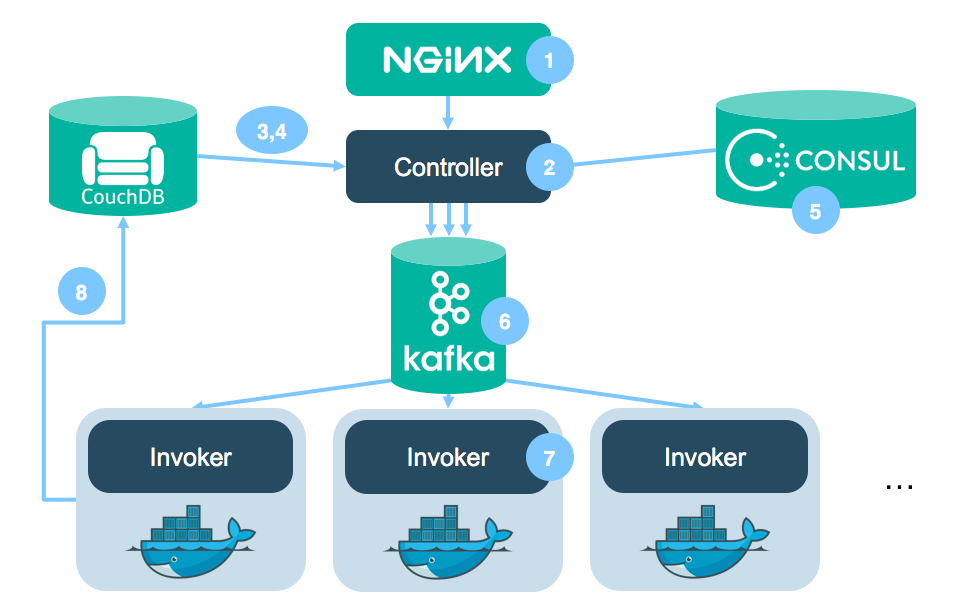
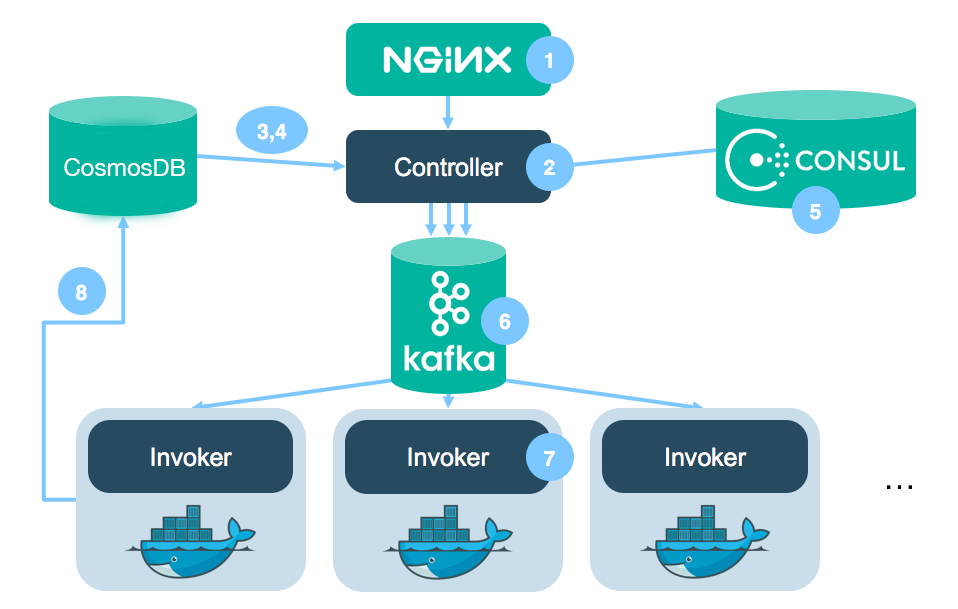
Add CosmosDB

Changed region(s): [[0.0605, 0.1872, 0.2119, 0.3744]]

diff --git a/overview/howitworks.md b/overview/howitworks.md
@@ -13,7 +13,7 @@ When each action is complete, the instantiation is disposed, so there&rsquo;s no
 
 ## The process in detail
 
-Here we&rsquo;ll trace the entire process, beginning with an event and finishing with the complete action executed in response. OpenWhisk (and therefore Runtime) is built on well-established open-source tools such as Nginx, Docker, Kafka, and CouchDB. These are assembled together into a seamless pipeline to provide serverless event-based processing.
+Here we&rsquo;ll trace the entire process, beginning with an event and finishing with the complete action executed in response. OpenWhisk (and therefore Runtime) is built on well-established open-source tools such as Nginx, Docker, Kafka, and CosmosDB. These are assembled together into a seamless pipeline to provide serverless event-based processing.
 
 ### Start with an action
 
@@ -63,10 +63,10 @@ The Controller is the core component of Runtime (OpenWhisk). It serves as the in
 
 The Controller receives your HTTP request from nginx and interprets it. The result may be a [CRUD](https://en.wikipedia.org/wiki/Create,_read,_update_and_delete) request, or a direct invocation of an action. In this example, the Controller reads your HTTP POST request to an existing action as an invocation of that action. It then moves to the next step.
 
-#### Permitting: CouchDB
+#### Permitting: CosmosDB
 
-Now the Controller has to verify that you are who you are (authentication), and you have permission to do what you&rsquo;re asking (authorization). It does this by checking your credentials, which are stored in a [CouchDB](http://couchdb.apache.org/ 'CouchDB') database called **subjects.** If you have an account and you have the permissions required to invoke the action you&rsquo;re requesting, which also depends on the action being in a namespace you own, then the Controller proceeds to the next step: retrieving the action itself.
+Now the Controller has to verify that you are who you are (authentication), and you have permission to do what you&rsquo;re asking (authorization). It does this by checking your credentials, which are stored in a CosmosDB database called **subjects.** If you have an account and you have the permissions required to invoke the action you&rsquo;re requesting, which also depends on the action being in a namespace you own, then the Controller proceeds to the next step: retrieving the action itself.
 
-#### Retrieving: CouchDB
+#### Retrieving: CosmosDB
 
-CouchDB is not only used to store users&rsquo; credentials, it&rsquo;s also used to store the code for the actions themselves. So, once the Controller has determined your permissions by the first call to CouchDB, it calls CouchDB again, this time to a database called **whisks.** CouchDB returns the code for the action, so the Controller can take the next step: queueing the action for processing.
+CosmosDB is not only used to store users&rsquo; credentials, it&rsquo;s also used to store the code for the actions themselves. So, once the Controller has determined your permissions by the first call to CosmosDB, it calls CosmosDB again, this time to a database called **whisks.** CosmosDB returns the code for the action, so the Controller can take the next step: queueing the action for processing.
